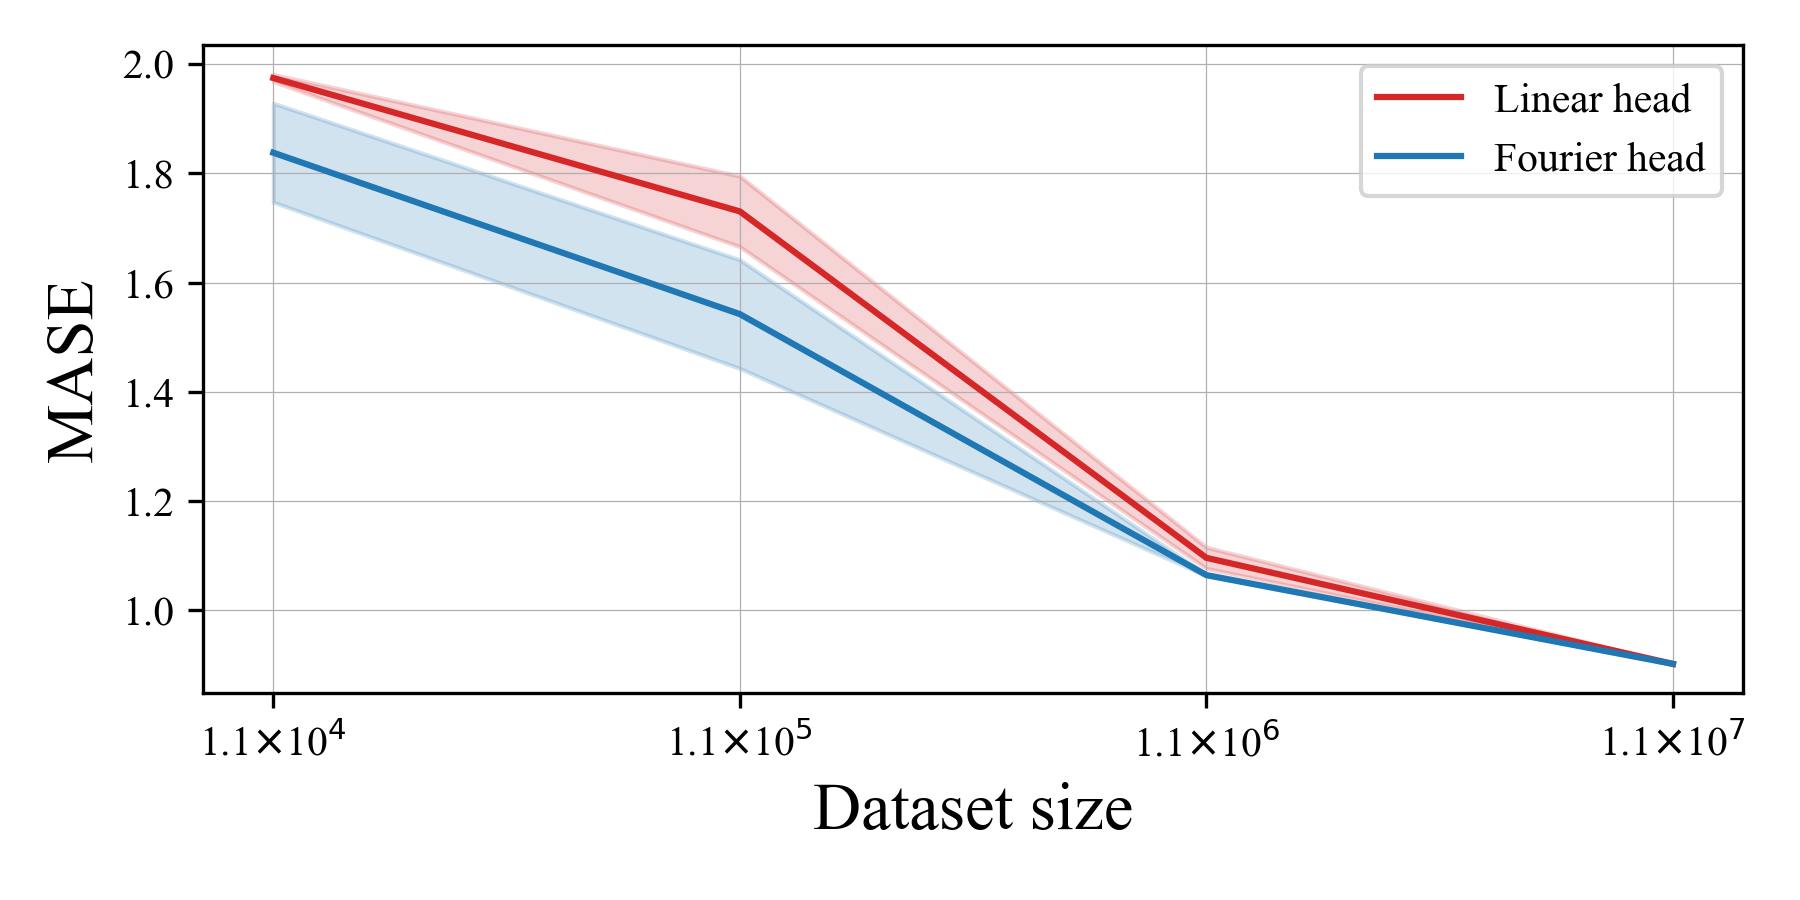
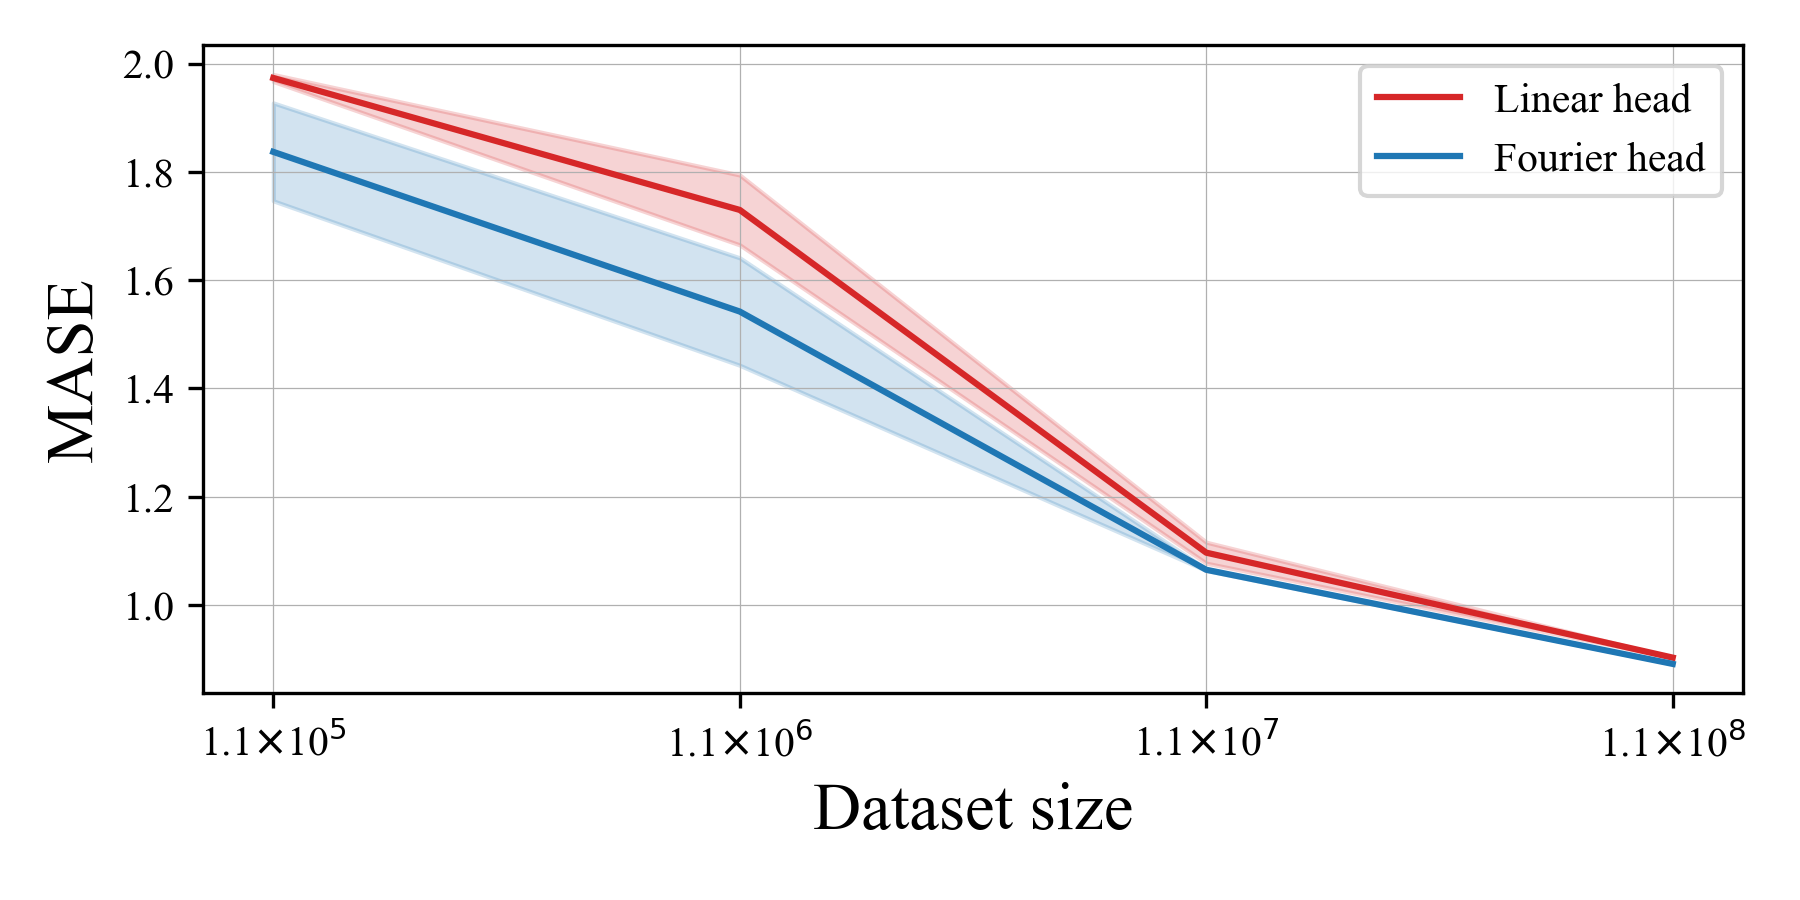
x axis bug fix

diff --git a/time-series-forecasting/scripts/eval/graphing/chronos_ablation_varying_dataset_size.py b/time-series-forecasting/scripts/eval/graphing/chronos_ablation_varying_dataset_size.py
@@ -211,7 +211,7 @@ def build_graph(metric_name, linear_values, fourier_values, linear_std, fourier_
     
     # Set custom x-axis ticks and labels
     ax.set_xticks(x_positions)
-    x_labels = [r'1.1$\times$10$^4$', r'1.1$\times$10$^5$', r'1.1$\times$10$^6$', r'1.1$\times$10$^7$']
+    x_labels = [r'1.1$\times$10$^5$', r'1.1$\times$10$^6$', r'1.1$\times$10$^7$', r'1.1$\times$10$^8$']
     ax.set_xticklabels(x_labels)
     ax.set_xlabel("Dataset size", fontsize=16)
     ax.legend(loc="best")
